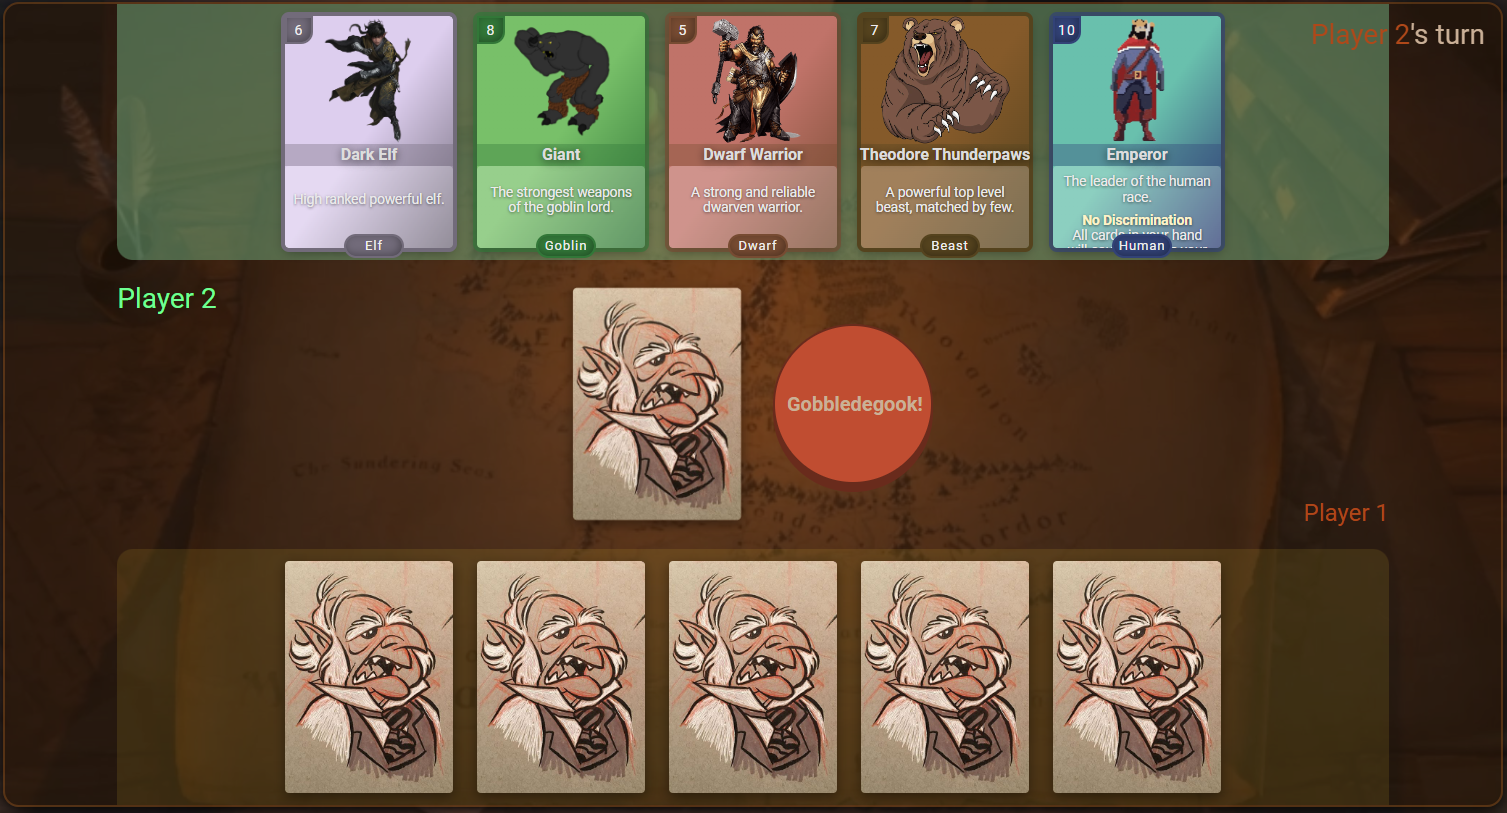
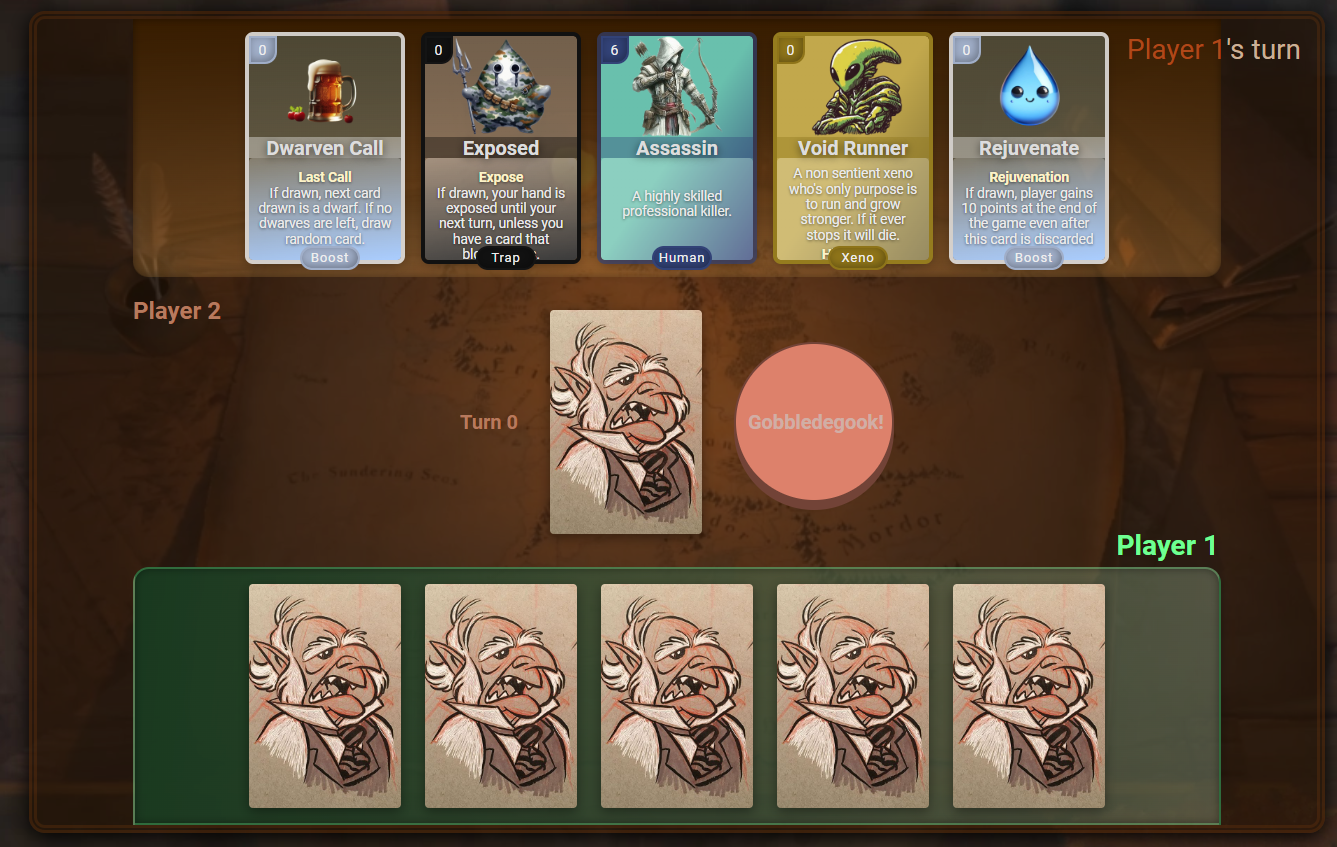
updated readme images

diff --git a/README.md b/README.md
@@ -1,7 +1,8 @@
 # Gobbledegook
 ### A fantasy card game.
 
-![Gobbledegook screenshot](./gdg_screenshot.png)
+![Gobbledegook screenshot, game not started](./gdg_screenshot.png)
+![Gobbledegook screenshot, game in progress](./gdg_start.png)
 
 <br>
 <br>
@@ -16,13 +17,17 @@ Gobbledegook is a 2 player card game where players need to collect 5 cards of th
 
 Each user takes a turn by first drawing a card and then discarding a card. If the player thinks they have more points than their opponent, they may press the GDG button on their turn, but only after 3 turns to avoid an instant GDG click on a lucky hand. Once the gobbledegook has been declared, the opponent has 1 more turn before the results are announced. It should also be noted that each deck has a leader which significantly buffs their race, players should aim to have at least one leader before calling Gobbledegook.
 
-![Gobbledegook screenshot](./gdg_online.png)
+![Gobbledegook screenshot](./gdg_end_1.png)
+![Gobbledegook screenshot](./gdg_end_1.png)
 
 <br>
 
 **What about mobile?**
 
 This game is currently not released to the general public and is not optimized for mobile. However, the game can be played on a phone it just looks ugly, I do plan on refining a mobile version but it's lower down on the list of priorities.
+
+![Gobbledegook screenshot](./gdg_mobile.png)
+
 
 <br>
 
